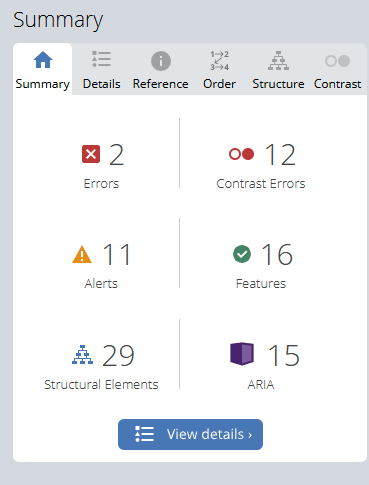
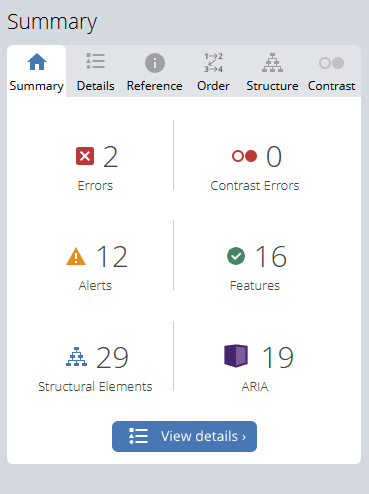
Adjusted HTML and CSS to conform to wave contrast requirements.

diff --git a/home/templates/home/index.html b/home/templates/home/index.html
@@ -43,7 +43,7 @@
       <h1 class="flow-text">Unbox Hobby Joy Monthly</h1>
       <p class="lead">Get curated miniatures, paints, and hobby gear delivered to your door.</p>
       {% if user.is_authenticated %}
-        <a href="{% url 'select_purchase_type' %}?gift=false" class="btn btn-large green">Pick a Plan</a>
+        <a href="{% url 'select_purchase_type' %}?gift=false" class="btn btn-large green darken-3">Pick a Plan</a>
         <a href="{% url 'select_purchase_type' %}?gift=true" class="btn btn-large teal lighten-2 black-text">Give as a Gift</a>
       {% else %}
         <a href="{% url 'register' %}?next={% url 'select_purchase_type' %}?gift=false" class="btn btn-large green">Pick a Plan</a>
@@ -65,7 +65,7 @@
 
 
         <h5>{{ box.name }}</h5>
-        <p class="grey-text text-darken-1">{{ box.description|truncatewords:25 }}</p>
+        <p class="grey-text text-darken-3">{{ box.description|truncatewords:25 }}</p>
 
         <h6>Box Contents</h6>
         <div class="carousel">
@@ -95,8 +95,8 @@
         {% else %}
           <img src="https://res.cloudinary.com/dlmbpbtfx/image/upload/v1747743568/ifeiea8bmpc80sx3g8wr.png" alt="Default image for {{ next_box.name }}" class="responsive-img box-preview-image z-depth-2">
         {% endif %}
-        <p class="grey-text">Ships {{ next_box.shipping_date|date:"d M Y" }}</p>
-        <p class="grey-text text-darken-1">{{ next_box.description|truncatewords:20 }}</p>
+        <p class="grey-text text-darken-2">Ships {{ next_box.shipping_date|date:"d M Y" }}</p>
+        <p class="grey-text text-darken-2">{{ next_box.description|truncatewords:20 }}</p>
       </section>
     {% endif %}
 

diff --git a/templates/base.html b/templates/base.html
@@ -79,7 +79,7 @@
           <li><a href="{% url 'account' %}">My Account</a></li>
           <li><a href="{% url 'logout' %}">Logout</a></li>
           <li class="divider"></li>
-          <li><strong class="grey-text text-darken-2">Get a Box</strong></li>
+          <li><strong class="grey-text text-lighten-2">Get a Box</strong></li>
           <li><a href="{% url 'select_purchase_type' %}?gift=false">Buy for Myself</a></li>
           <li><a href="{% url 'select_purchase_type' %}?gift=true">Give as a Gift</a></li>
         {% else %}

diff --git a/static/css/style.css b/static/css/style.css
@@ -112,7 +112,7 @@ nav ul li {
 
 /* === Sidenav === */
 .sidenav {
-  background-color: #81C784;
+  background-color: #1B5E20;
 }
 
 .sidenav a {
